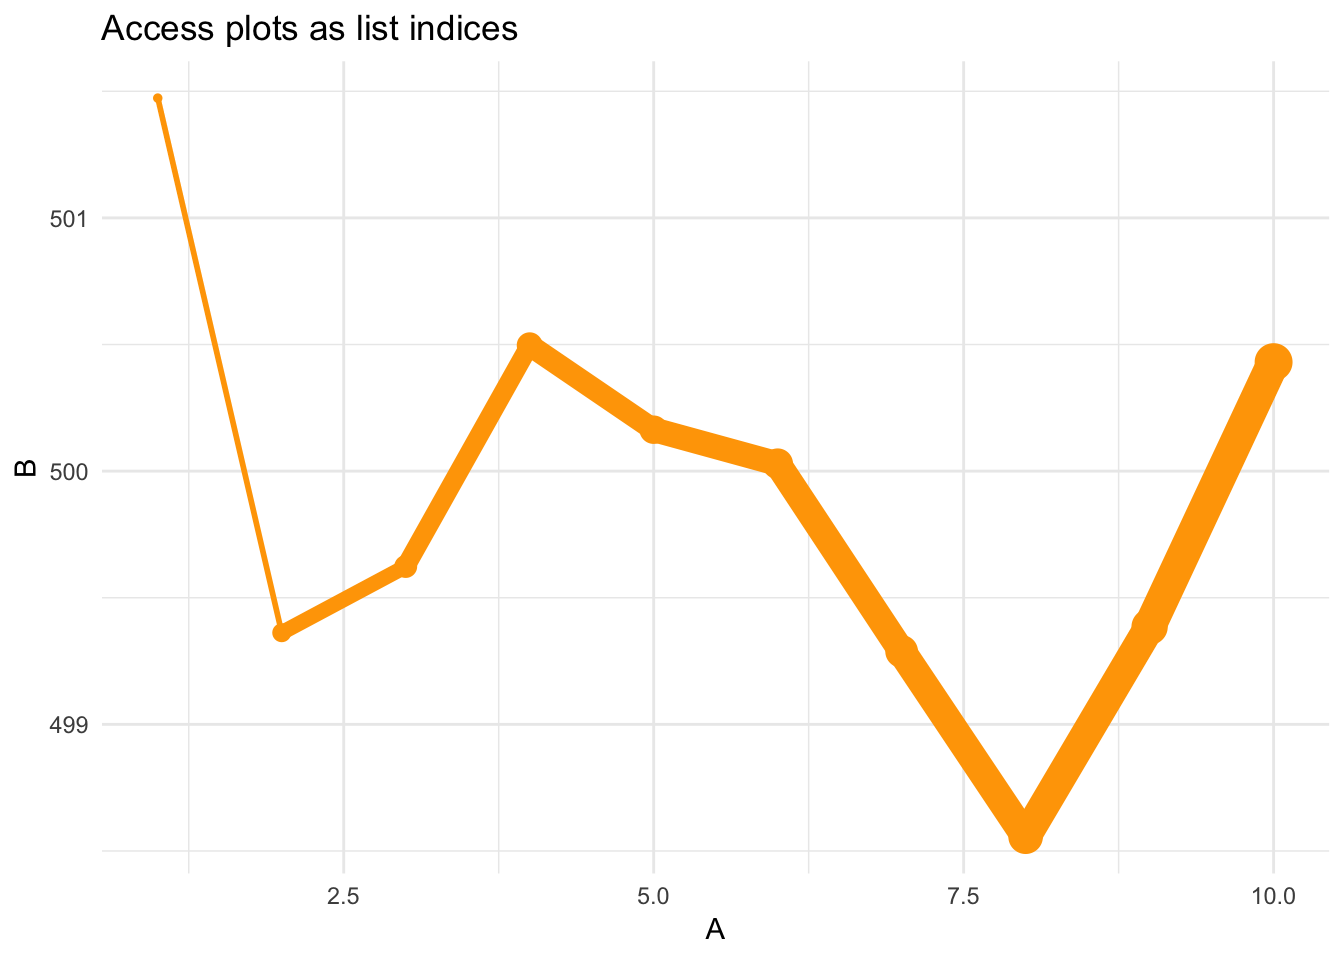
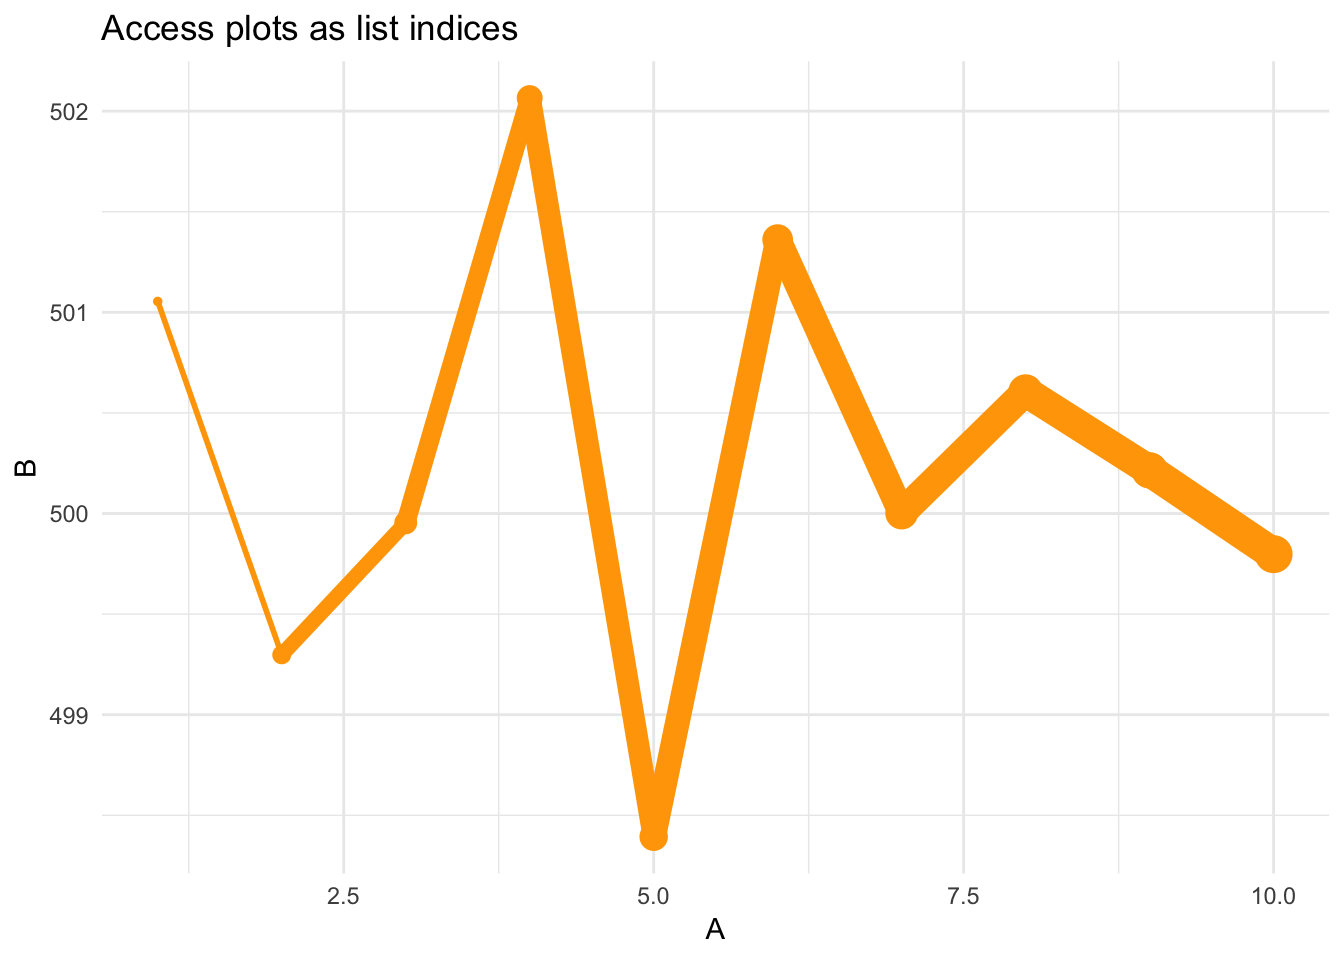
L6 plot eg

diff --git a/docs/Lesson6.html b/docs/Lesson6.html
@@ -502,29 +502,29 @@ nyc &lt;-<span class="st"> </span>nyc[nyc<span class="op">$</span>id <span class
 s2 &lt;-<span class="st"> </span><span class="kw">rnorm</span>(<span class="dv">10</span>, <span class="dv">500</span>)  <span class="co"># sample 10 normally distributed random numbers around a mean of 500 </span>
 s3 &lt;-<span class="st"> </span><span class="kw">runif</span>(<span class="dv">10</span>)  <span class="co"># random uniform distribution</span>
 s1</code></pre></div>
-<pre><code> [1] 10  4  9  6  7  5  2  3  8  1</code></pre>
+<pre><code> [1]  3  2  5 10  4  8  6  1  9  7</code></pre>
 <div class="sourceCode"><pre class="sourceCode r"><code class="sourceCode r">s2</code></pre></div>
-<pre><code> [1] 500.4304 500.4970 499.3853 500.0292 499.2880 500.1636 499.3618 499.6234 498.5563 501.4731</code></pre>
+<pre><code> [1] 499.9535 499.2976 498.3935 499.7979 502.0647 500.6060 501.3614 501.0542 500.2144 500.0021</code></pre>
 <div class="sourceCode"><pre class="sourceCode r"><code class="sourceCode r">s3</code></pre></div>
-<pre><code> [1] 0.82911364 0.25724052 0.97167792 0.89259868 0.09026169 0.81744847 0.47592522 0.42922896
- [9] 0.69870242 0.14399284</code></pre>
+<pre><code> [1] 0.24694887 0.86535646 0.18281281 0.01762393 0.55839933 0.24648265 0.03111196 0.63498036
+ [9] 0.26214007 0.14471090</code></pre>
 <p>Now combine these into a list using <code>list()</code></p>
 <div class="sourceCode"><pre class="sourceCode r"><code class="sourceCode r">ls1 &lt;-<span class="st"> </span><span class="kw">list</span>(s1, s2, s3)  <span class="co"># create a list of these data</span>
 ls1</code></pre></div>
 <pre><code>[[1]]
- [1] 10  4  9  6  7  5  2  3  8  1
+ [1]  3  2  5 10  4  8  6  1  9  7
 
 [[2]]
- [1] 500.4304 500.4970 499.3853 500.0292 499.2880 500.1636 499.3618 499.6234 498.5563 501.4731
+ [1] 499.9535 499.2976 498.3935 499.7979 502.0647 500.6060 501.3614 501.0542 500.2144 500.0021
 
 [[3]]
- [1] 0.82911364 0.25724052 0.97167792 0.89259868 0.09026169 0.81744847 0.47592522 0.42922896
- [9] 0.69870242 0.14399284</code></pre>
+ [1] 0.24694887 0.86535646 0.18281281 0.01762393 0.55839933 0.24648265 0.03111196 0.63498036
+ [9] 0.26214007 0.14471090</code></pre>
 <div class="sourceCode"><pre class="sourceCode r"><code class="sourceCode r">ls1 <span class="op">%&gt;%</span><span class="st"> </span>str</code></pre></div>
 <pre><code>List of 3
- $ : int [1:10] 10 4 9 6 7 5 2 3 8 1
- $ : num [1:10] 500 500 499 500 499 ...
- $ : num [1:10] 0.8291 0.2572 0.9717 0.8926 0.0903 ...</code></pre>
+ $ : int [1:10] 3 2 5 10 4 8 6 1 9 7
+ $ : num [1:10] 500 499 498 500 502 ...
+ $ : num [1:10] 0.2469 0.8654 0.1828 0.0176 0.5584 ...</code></pre>
 </div>
 <div id="exercise-0" class="section level1">
 <h1>Exercise 0</h1>
@@ -588,7 +588,7 @@ func &lt;-<span class="st"> </span><span class="kw">map</span>(ls1, mean) <span 
 
 ls2 &lt;-<span class="st"> </span><span class="kw">list</span>(<span class="dv">1</span>, <span class="ot">NA</span>, <span class="ot">NULL</span>, <span class="kw">integer</span>(<span class="dv">0</span>), <span class="kw">list</span>())  <span class="co"># list of empty and null things  </span>
 <span class="kw">compact</span>(ls2)</code></pre></div>
-<p>Store plots in lists for easy retrieval. Create two plots of the <code>ls1</code> data and store in a list called <code>plot_list</code>.</p>
+<p>Store plots in lists for easy retrieval. Create two plots of the <code>ls1</code> data (called <code>ls1p</code> and <code>ls2p</code>) and store in a list called <code>plot_list</code>.</p>
 <div class="sourceCode"><pre class="sourceCode r"><code class="sourceCode r">plot_list &lt;-<span class="st"> </span><span class="kw">list</span>(ls1p, ls2p)</code></pre></div>
 <p>PLot the below plot from the object <code>plot_list</code><br />
 <img src="Lesson6_files/figure-html/unnamed-chunk-11-1.png" width="672" /></p>
